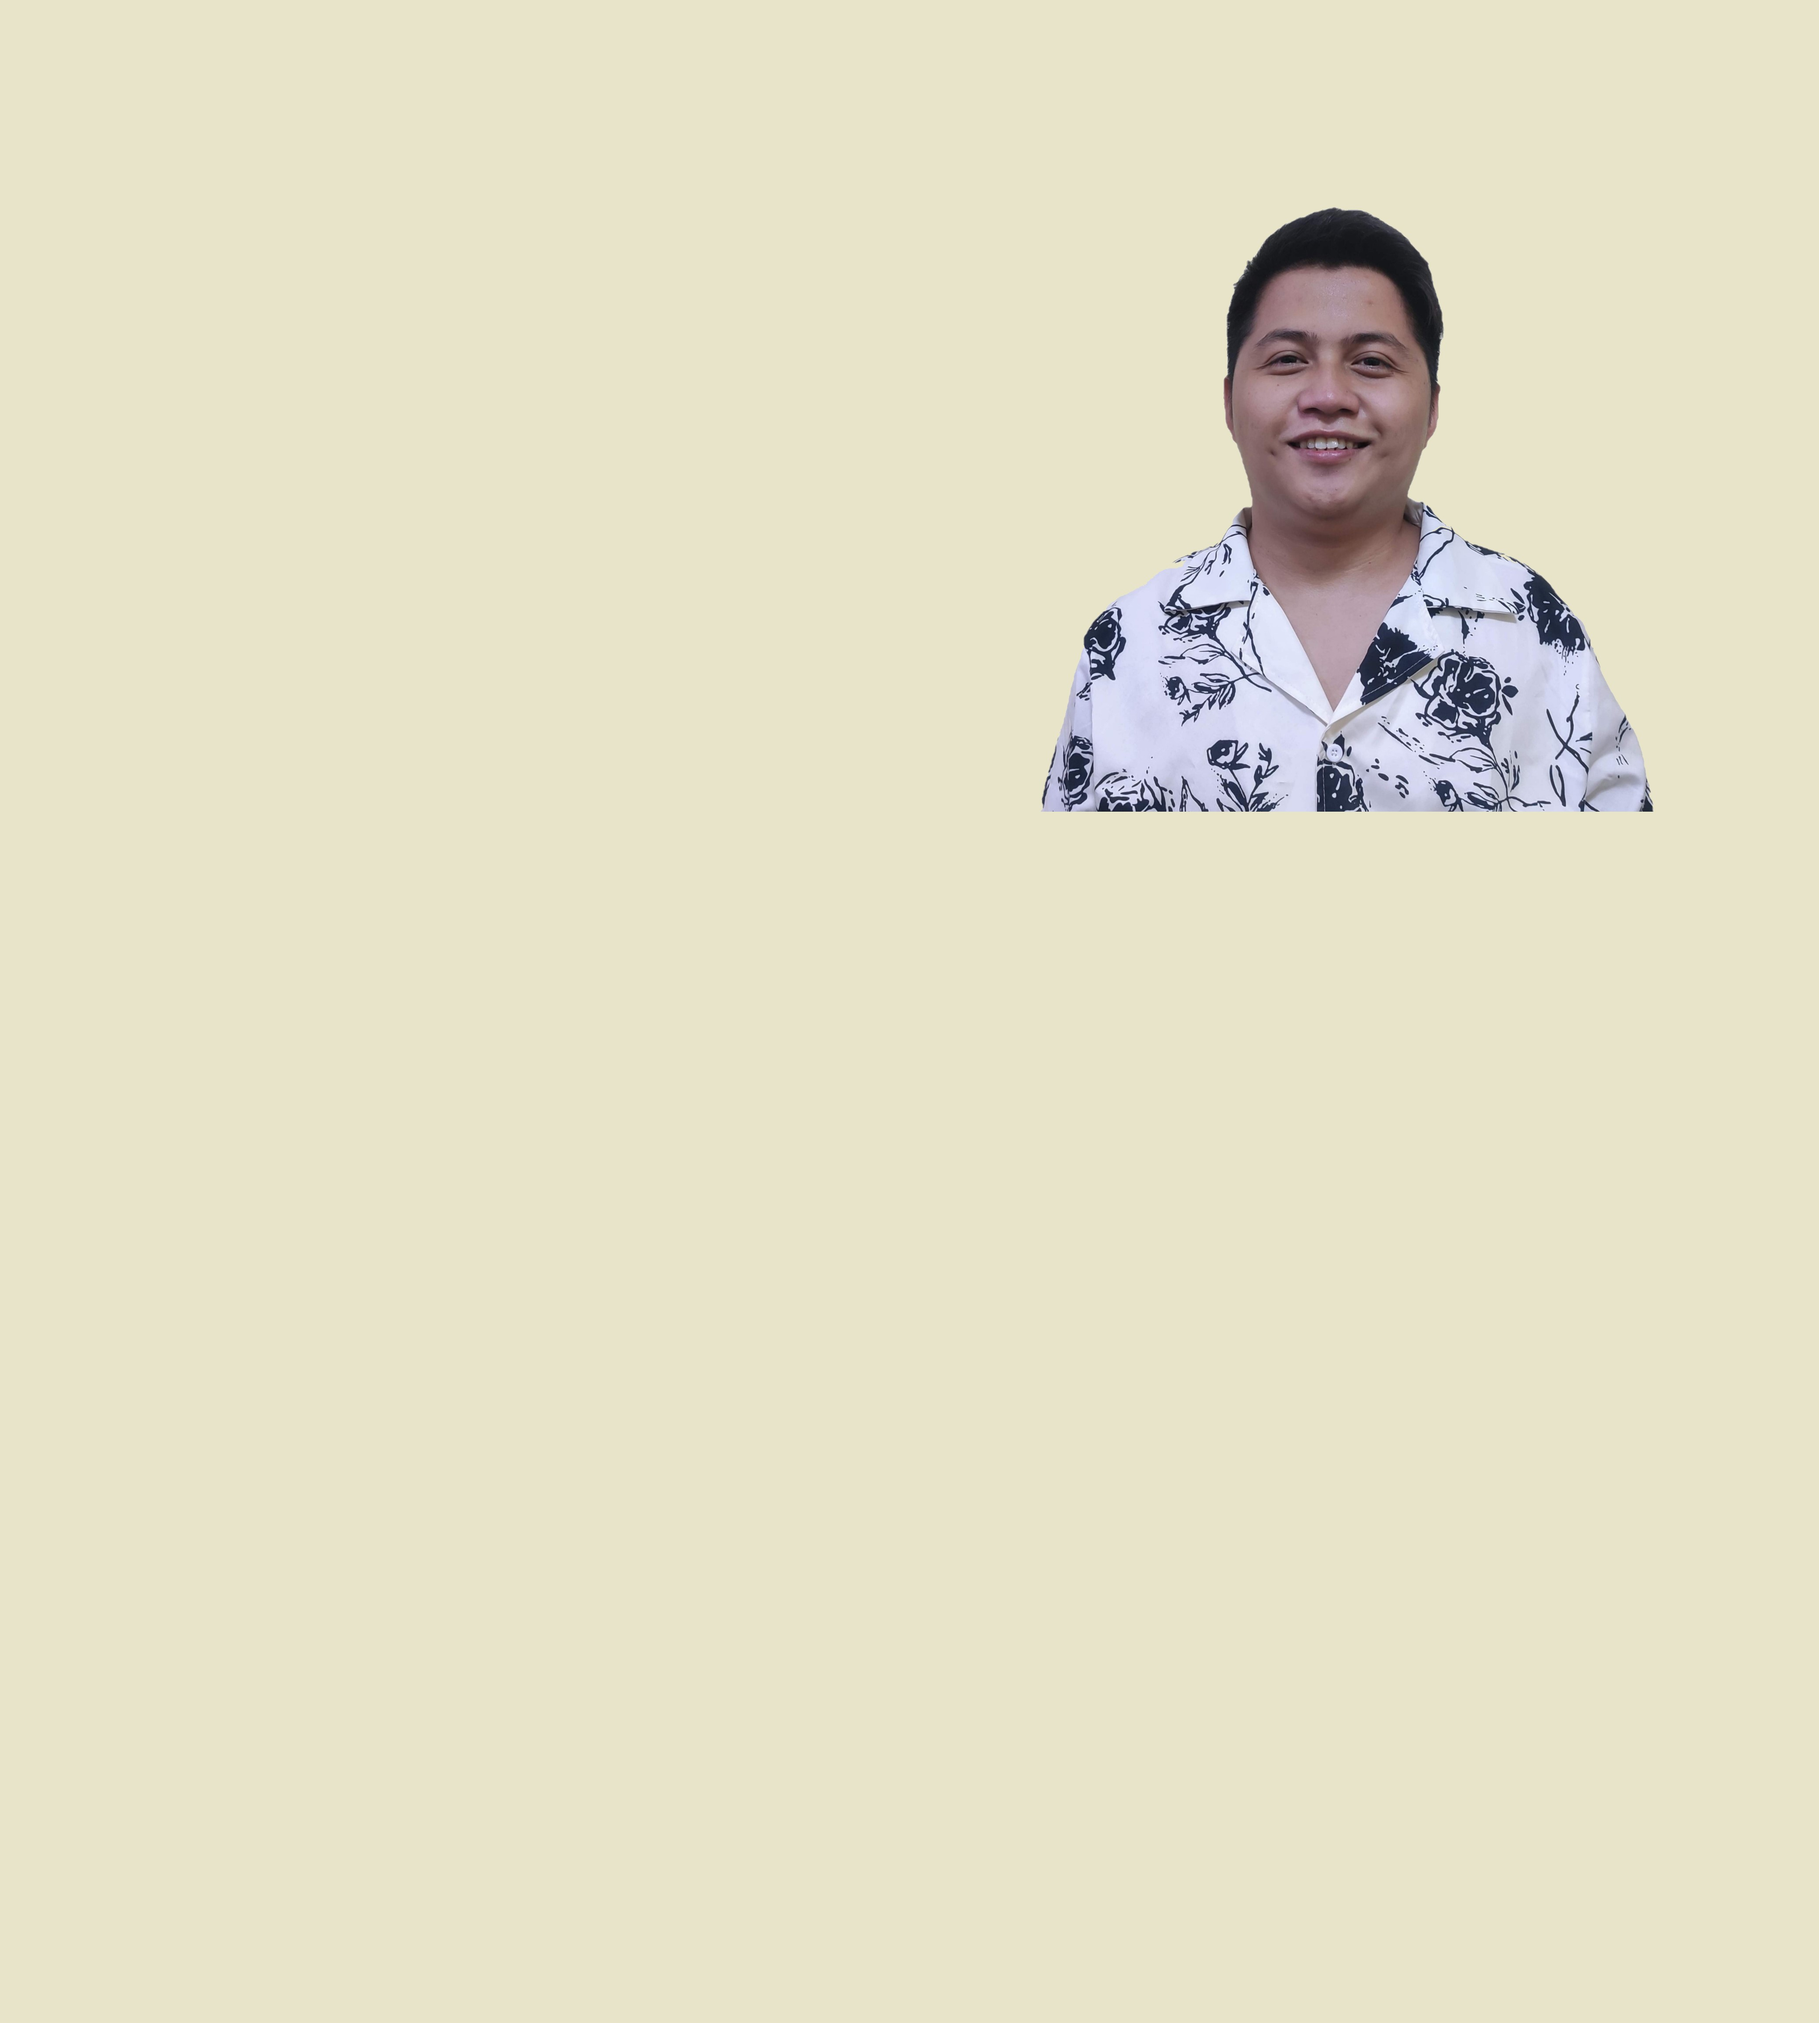
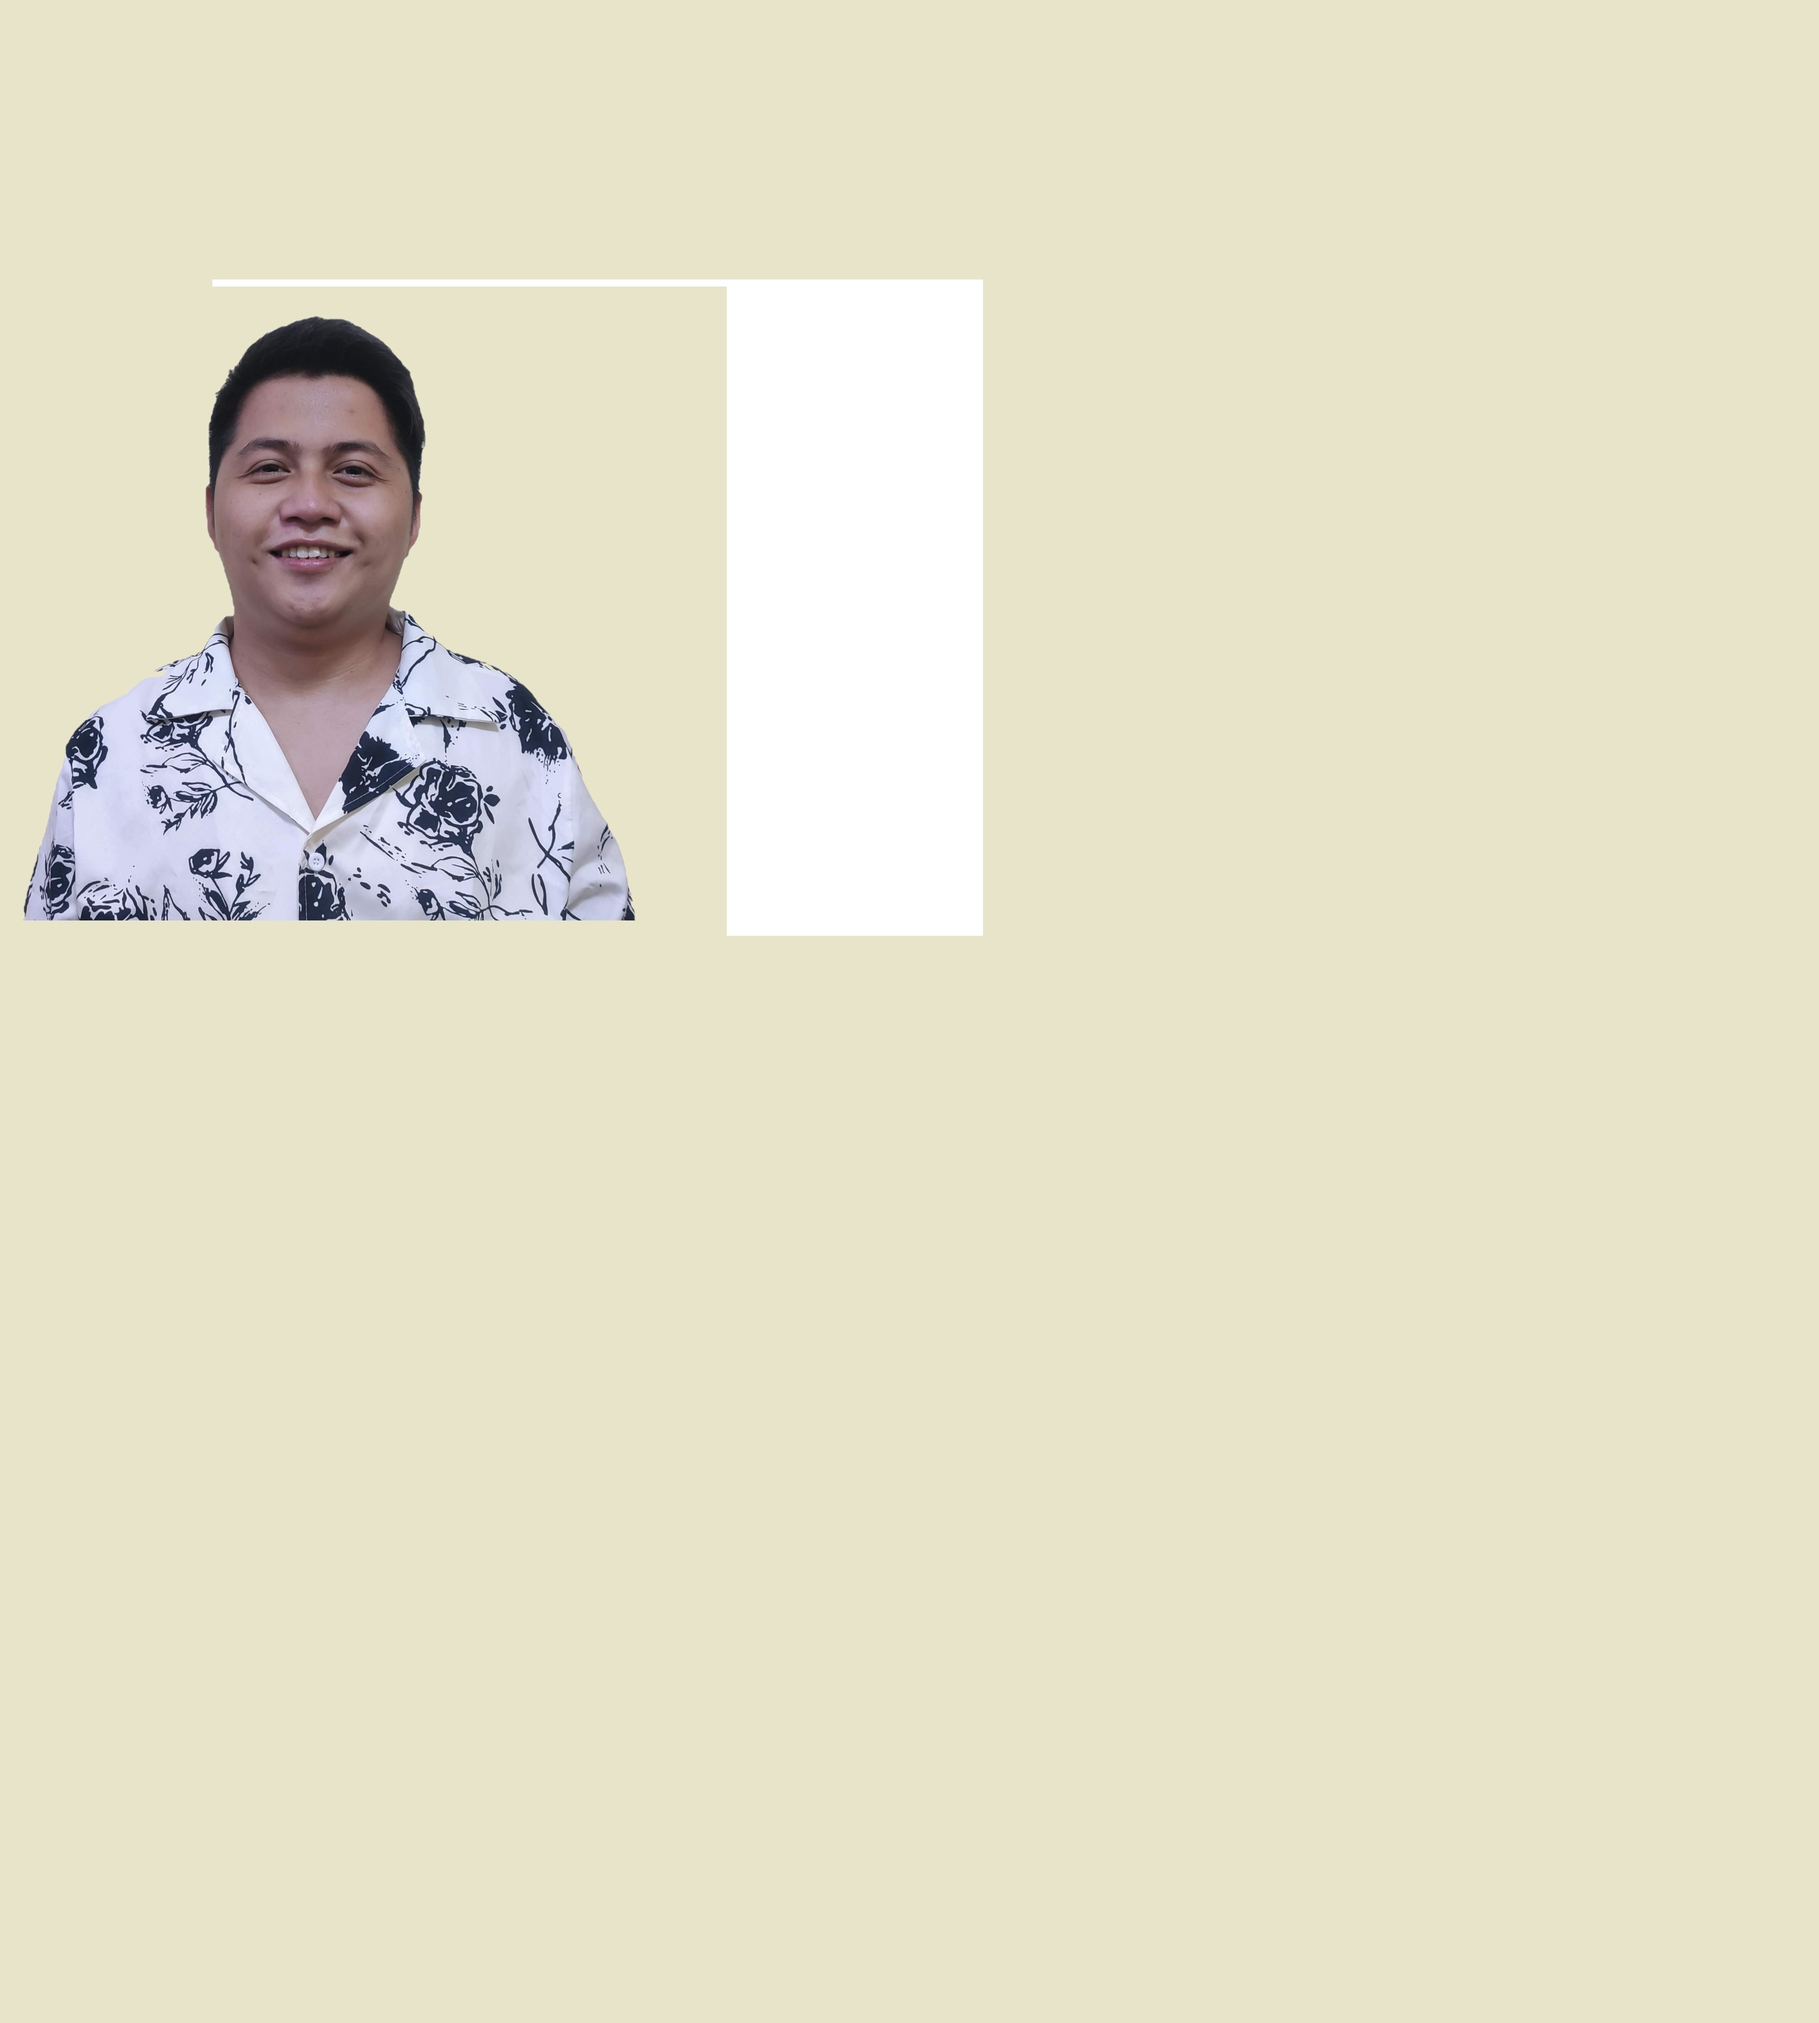
modify responsive mobile devices

Changed region(s): [[0.0, 0.0937, 0.9337, 0.4684]]

diff --git a/index.html b/index.html
@@ -47,7 +47,9 @@
             <div class="row">
                 <div>
                     <h1 class="sub-title" >About Me</h1>
-                    <p class="aboutme">Dedicated and aspiring software engineer with an outstanding desire to succeed in the fast-paced, constantly-changing software development industry. Equipped with a solid foundation in programming languages, competent problem-solving abilities, and a lifelong passion for technology, I am passionate about contributing to innovative projects while continuously improving my abilities.  My objective is to use my technical skills and dedication to succeed as a software engineer, contributing significantly to innovative projects and working in a collaborative setting.</p>
+                    <p class="aboutme">
+                        I am a dedicated and aspiring software engineer with a strong desire to excel in the dynamic software development industry. Possessing a solid foundation in programming languages and effective problem-solving skills, I am deeply passionate about technology and committed to contributing to innovative projects. My objective is to leverage my technical skills and dedication to succeed as a software engineer, making substantial contributions to projects and thriving in a collaborative environment
+                    </p>
 
                     <div class="tab-titles">
                         <p class="tab-links active-link" onclick="opentab('experience')">Project Experience </p>
@@ -96,7 +98,7 @@
     </div>
 
     <!-- ------------------------------------------portfolio--------------------------------------------- -->
-    <div id="portfolio">
+    <div id="portfolio" class="mt-md-5">
         <div class="container">
             <h1 class="sub-title">My Work</h1>
             <div class="worklist">

diff --git a/index.css b/index.css
@@ -12,7 +12,7 @@ body{
 #header{
     width: 100%;
     height: 100vh;
-    background-image: url("images/profile3.jpg");
+    background-image: url("images/profile1.jpg");
     background-size: cover;
 }
 
@@ -108,9 +108,10 @@ nav ul li a:hover::after{
     margin: 20px 0 40px;
 }
 
+
 .tab-links{
     margin-right: 50px;
-    font-size: 28px;
+    font-size: 28px !important;
     font-weight: 500;
     cursor: pointer;
     position: relative;
@@ -341,7 +342,41 @@ nav .menu{
     display: none;
 }
 
-@media only screen and (max-width: 600px) {
+/* ----------------------------------------smallscreen------------------------------------ */
+@media only screen and (max-width: 992px) {     
+    #header{
+        background-image: url("images/profile4.jpg");
+    }
+
+    .header-text{
+        margin-top: 90%;
+        text-align: center;
+    }
+
+    .header-text h1{
+        font-size: 90px;
+    }
+
+    .sub-title{
+        font-size: 45px;
+    }
+
+    .tab-links{ 
+        font-size: 34px !important;
+    }
+
+    .tab-contents li p{
+        font-size: 24px !important;
+    }
+
+    .tools p{
+        font-size: 24px !important;
+    }
+
+}
+
+
+@media only screen and (max-width: 768px) {
     #header{
         background-image: url("images/profile2.jpg");
     }
@@ -438,3 +473,4 @@ nav .menu{
 
     
 }
+
